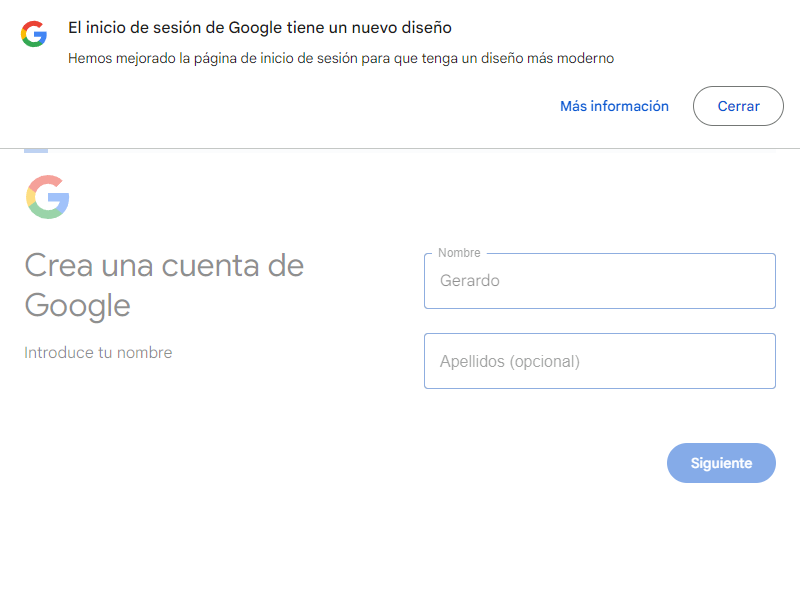
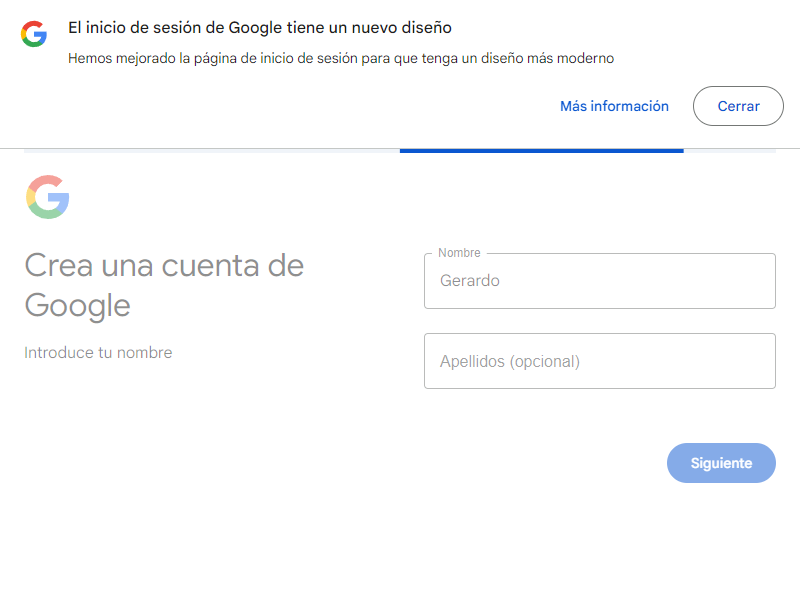
nothing

diff --git a/gmailTest.js b/gmailTest.js
@@ -13,13 +13,15 @@ const puppeteer = require('puppeteer');
     await page.keyboard.press('Enter');
     await page.keyboard.press('Tab');
     await page.keyboard.press('Enter');
-    await page.setDefaultTimeout(10000);
+    page.setDefaultTimeout(10000);
     await page.waitForNavigation();
 
     await page.keyboard.type('Gerardo');
     await page.keyboard.press('Tab');
     await page.keyboard.press('Tab');
     await page.keyboard.press('Enter');
+    page.setDefaultTimeout(50000);
+    await page.waitForNavigation();
     
     await page.screenshot({ path : 'example.png' });
     
